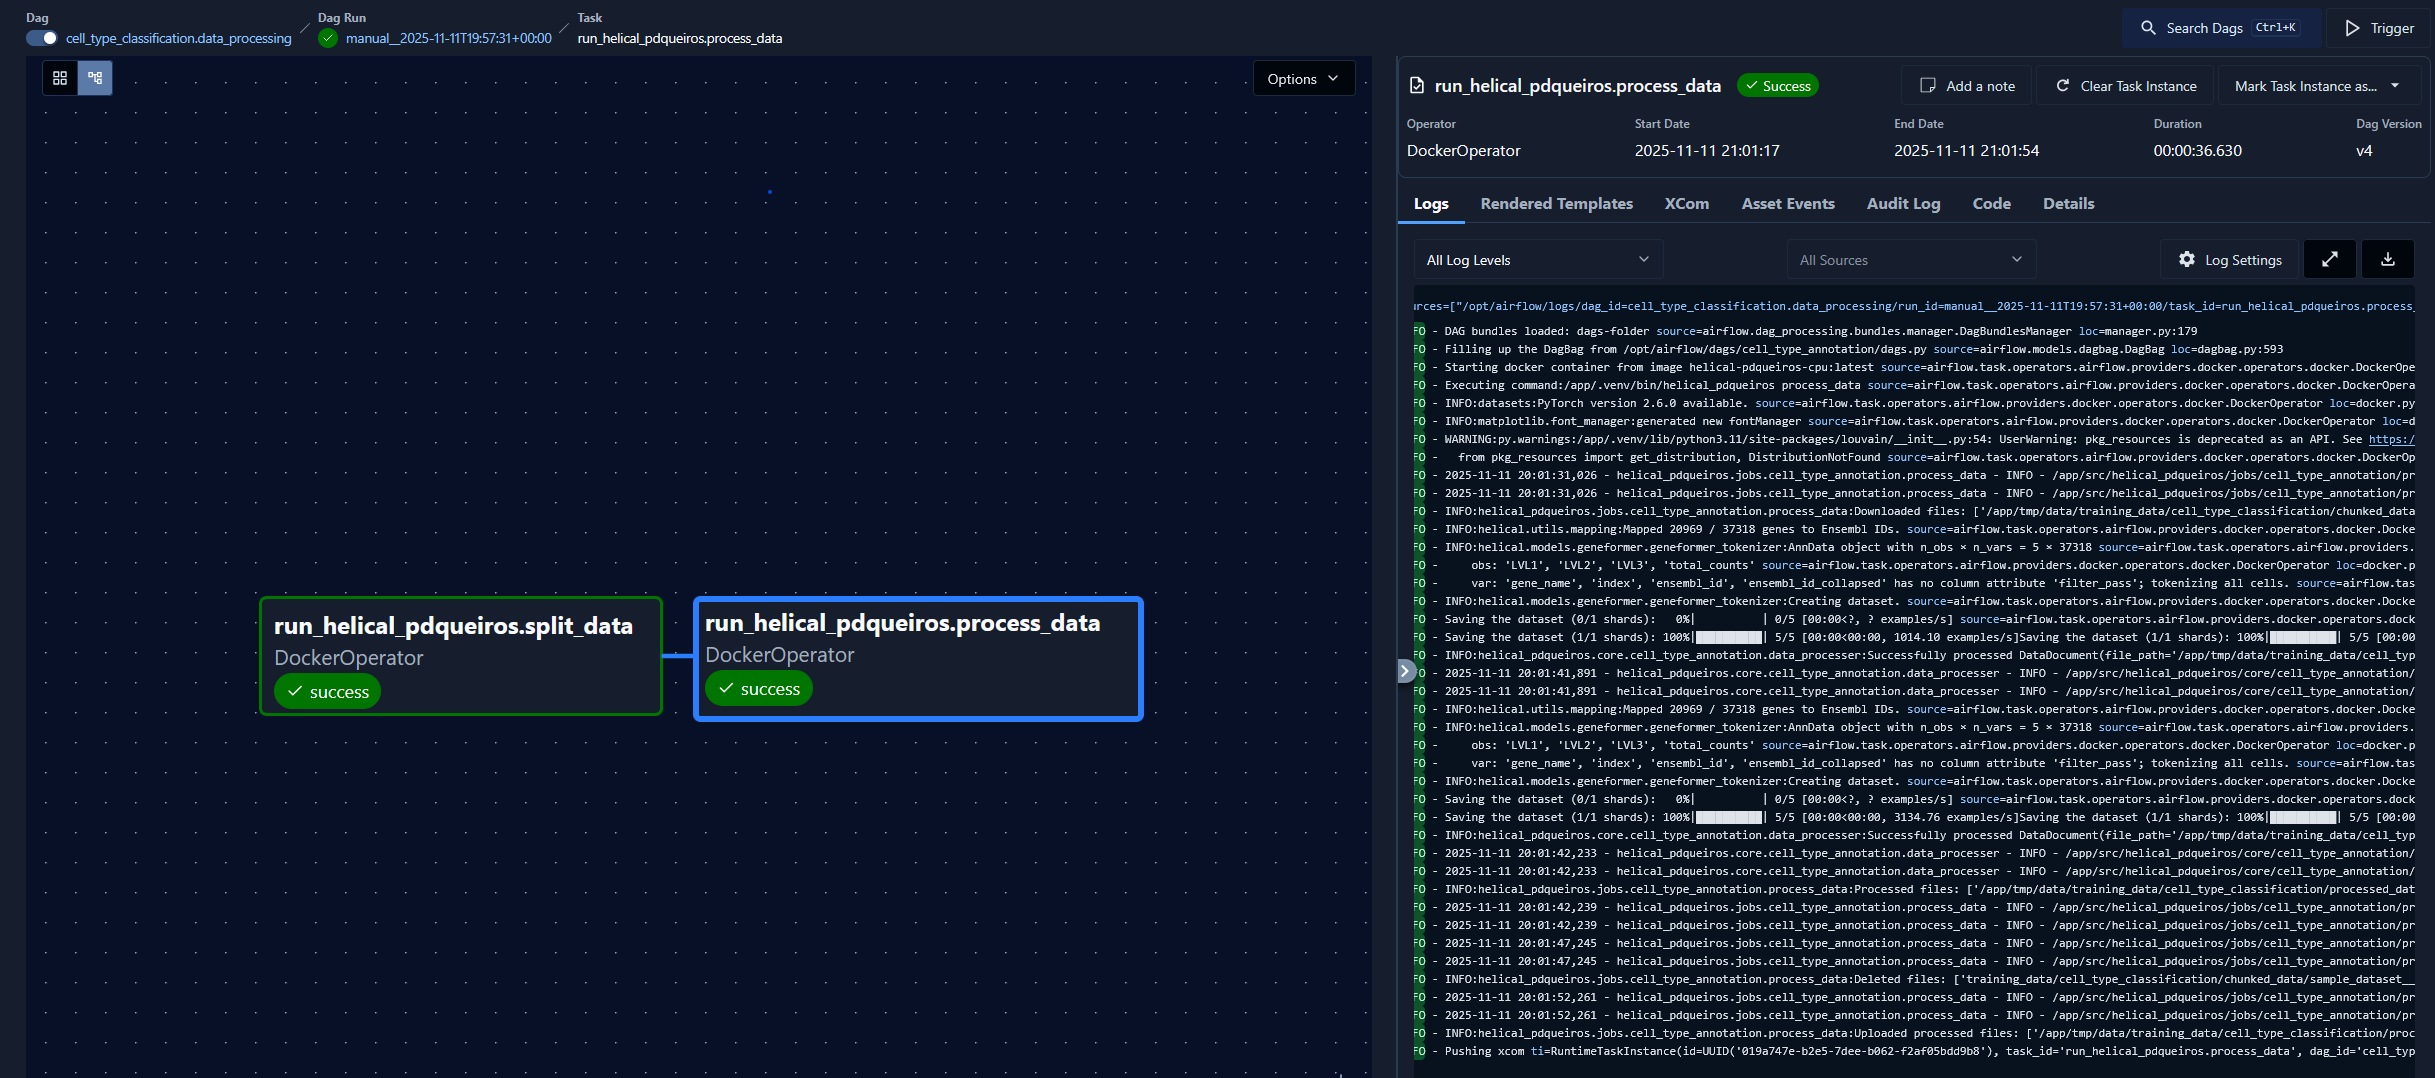
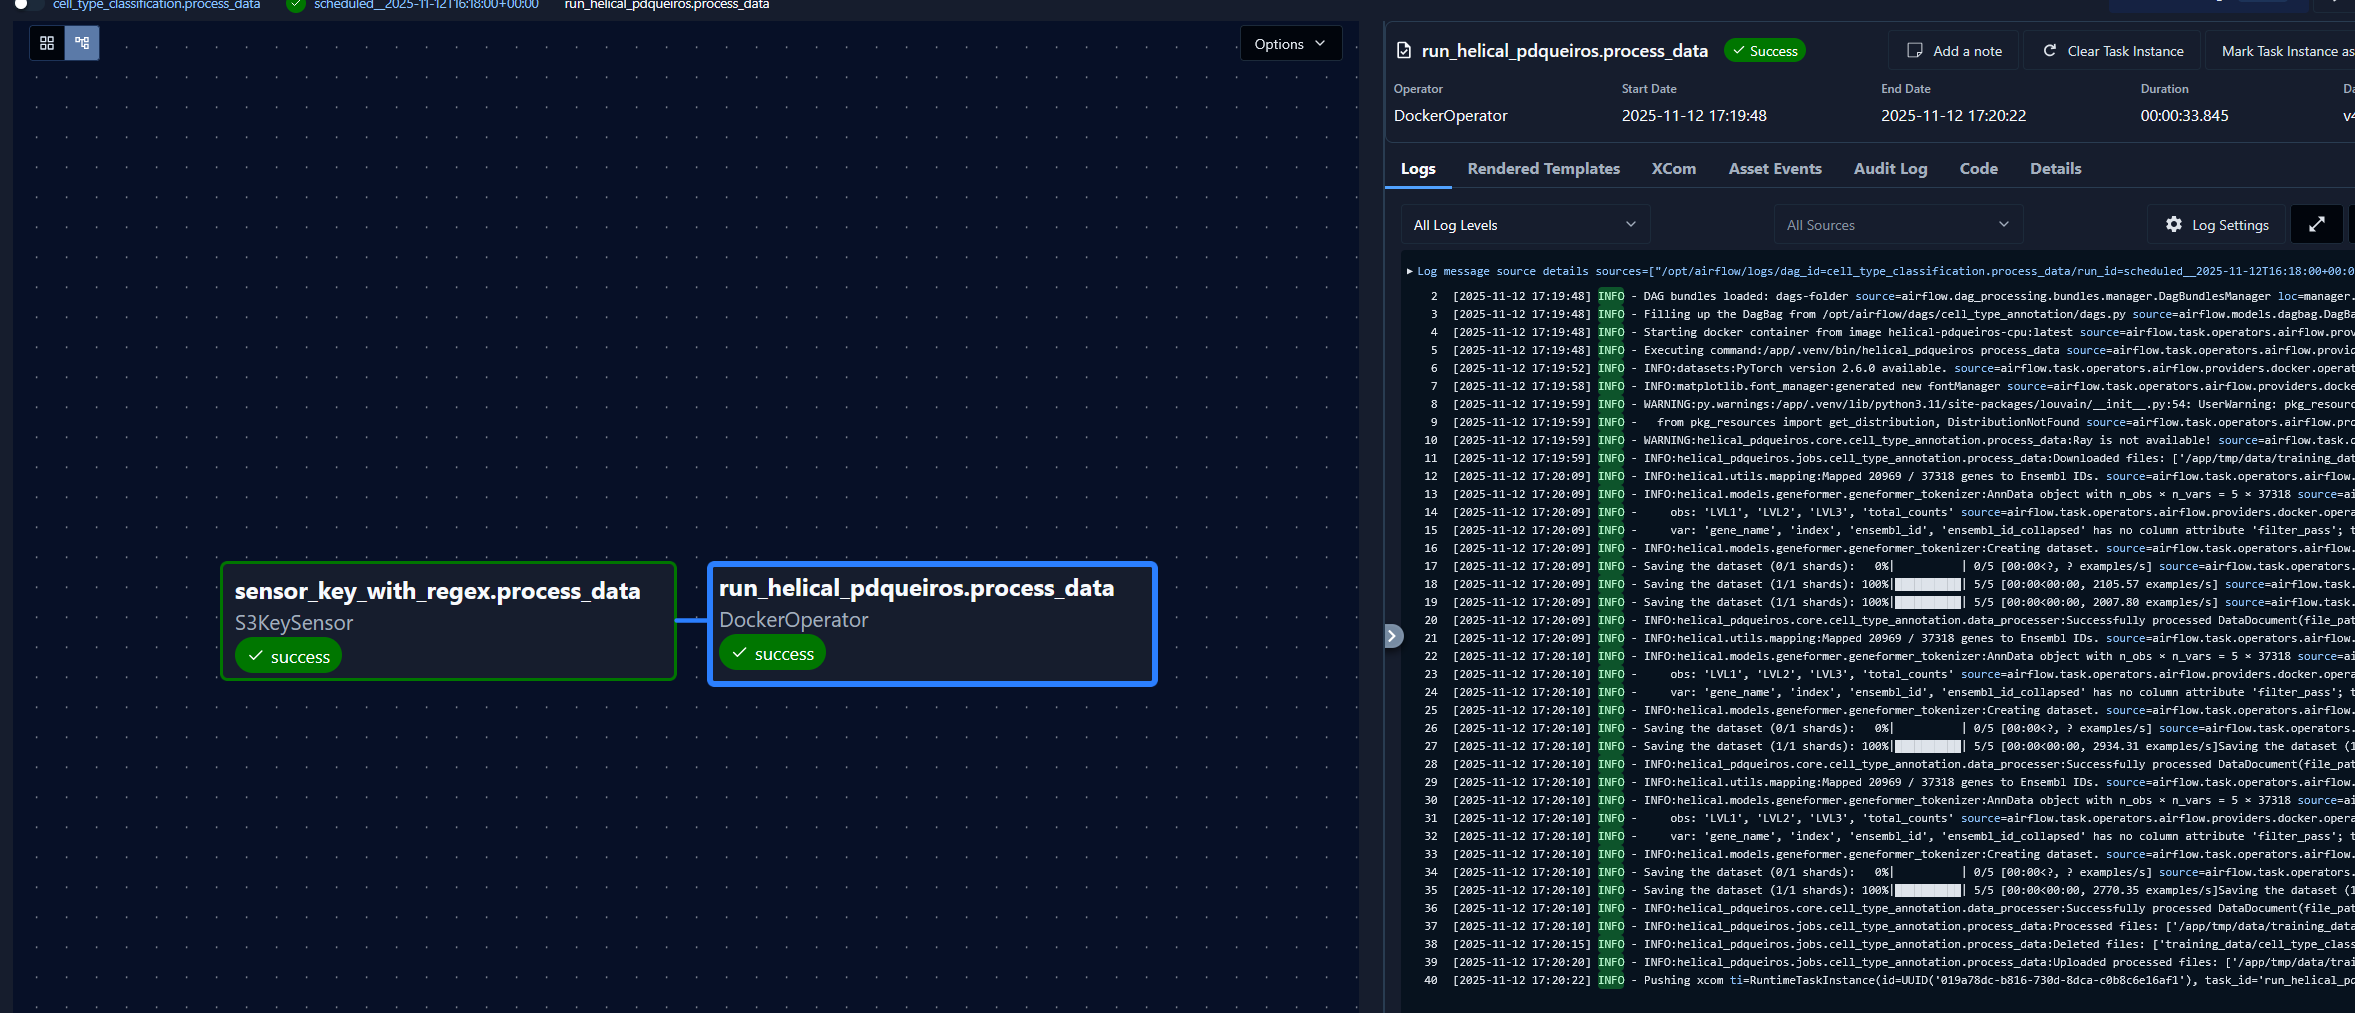
adds sensor to dags

Changed region(s): [[0.496, 0.0, 1.0, 0.9793], [0.093, 0.5508, 0.496, 0.7038], [0.0, 0.0, 0.31, 0.0918]]

diff --git a/dags/cell_type_annotation/dags.py b/dags/cell_type_annotation/dags.py
@@ -1,12 +1,14 @@
 import logging
 import os
 from typing import Literal
-
+from airflow.providers.amazon.aws.sensors.s3 import S3KeySensor
 import pendulum
 from airflow.models.dag import DAG
 from airflow.providers.docker.operators.docker import DockerOperator
 from docker.types import DeviceRequest, Mount
 from dotenv import dotenv_values
+import uuid6
+from airflow.sdk import Variable
 
 IMAGE_NAME = 'helical-pdqueiros-cpu:latest'
 IMAGE_NAME_GPU = 'helical-pdqueiros-gpu:latest'
@@ -17,13 +19,21 @@ logger = logging.getLogger(__name__)
 EXPERIMENT_NAME = os.getenv('EXPERIMENT_NAME', 'cell_type_classification')
 CUDA_DEVICE_ID = os.getenv('CUDA_DEVICE_ID', '')
 
+ENV_CONFIG = dotenv_values(ENV_FILE)
+BUCKET_NAME = ENV_CONFIG['HELICAL_S3_BUCKET']
+SENSOR_TIMEOUT = int(ENV_CONFIG.get('SENSOR_TIMEOUT', '10'))
+
+MINIO_CONNECTION = Variable.get('MINIO_CONNECTION')
+
 
 def get_task(execution_type: Literal['split_data', 'process_data', 'fine_tune'], image_name: str, device_requests: list=None):
     command_to_run = f'helical_pdqueiros {execution_type}'
     # https://airflow.apache.org/docs/apache-airflow-providers-docker/stable/_api/airflow/providers/docker/operators/docker/index.html
+    container_id = uuid6.uuid7().hex
     return DockerOperator(
             task_id=f"run_helical_pdqueiros.{execution_type}",
-            container_name=f'helical-pdqueiros.{execution_type}',
+            # I'd prefer to use run_id for traceability, but it has forbidden characters -> see this https://stackoverflow.com/questions/63138577/airflow-grab-and-sanitize-run-id-for-dockeroperator
+            container_name=f'helical-pdqueiros.{execution_type}.{container_id}',
             image=image_name,
             mounts=[
                 # https://docker-py.readthedocs.io/en/stable/api.html?highlight=mount#docker.types.Mount
@@ -42,15 +52,38 @@ def get_task(execution_type: Literal['split_data', 'process_data', 'fine_tune'],
         )
 
 with DAG(
-    dag_id=f'{EXPERIMENT_NAME}.data_processing',
+    dag_id=f'{EXPERIMENT_NAME}.split_data',
     start_date=pendulum.datetime(2025, 1, 1),
-    # schedule='0 * * * *',
+    schedule='* * * * *',
     catchup=False,
-    tags=["helical-pdqueiros", 'data_processing'],
+    tags=["helical-pdqueiros", 'split_data'],
     ) as dag:
+        sensor_key_with_regex = S3KeySensor(task_id="sensor_key_with_regex.split_data",
+                                            # this is the connection ID we setup in the UI
+                                            aws_conn_id=MINIO_CONNECTION,
+                                            bucket_name=BUCKET_NAME,
+                                            bucket_key=ENV_CONFIG['SENSOR__RAW_DATA_PATTERN'],
+                                            timeout=SENSOR_TIMEOUT,
+                                            use_regex=True)
         split_data_task = get_task(execution_type='split_data', image_name=IMAGE_NAME)
+        sensor_key_with_regex >> split_data_task
+
+with DAG(
+    dag_id=f'{EXPERIMENT_NAME}.process_data',
+    start_date=pendulum.datetime(2025, 1, 1),
+    schedule='* * * * *',
+    catchup=False,
+    tags=["helical-pdqueiros", 'process_data'],
+    ) as dag:
+        sensor_key_with_regex = S3KeySensor(task_id="sensor_key_with_regex.process_data",
+                                            aws_conn_id=MINIO_CONNECTION,
+                                            bucket_name=BUCKET_NAME,
+                                            bucket_key=ENV_CONFIG['SENSOR__CHUNKED_DATA_PATTERN'],
+                                            timeout=SENSOR_TIMEOUT,
+                                            use_regex=True)
         process_data_task = get_task(execution_type='process_data', image_name=IMAGE_NAME)
-        split_data_task >> process_data_task
+        sensor_key_with_regex >> process_data_task
+
 
 with DAG(
     dag_id=f'{EXPERIMENT_NAME}.model_fine_tuning',

diff --git a/README.md b/README.md
@@ -323,35 +323,68 @@ As I previously said, since we are running our DAGs using containers, the main a
 For your reference this is how these DAGs are setup:
 ```python
 
+ENV_CONFIG = dotenv_values(ENV_FILE)
+BUCKET_NAME = ENV_CONFIG['HELICAL_S3_BUCKET']
+MINIO_CONNECTION = Variable.get('MINIO_CONNECTION')
+
 def get_task(execution_type: Literal['split_data', 'process_data', 'fine_tune'], image_name: str, device_requests: list=None):
     command_to_run = f'helical_pdqueiros {execution_type}'
+    # https://airflow.apache.org/docs/apache-airflow-providers-docker/stable/_api/airflow/providers/docker/operators/docker/index.html
+    container_id = uuid6.uuid7().hex
     return DockerOperator(
             task_id=f"run_helical_pdqueiros.{execution_type}",
-            container_name=f'helical-pdqueiros.{execution_type}',
+            container_name=f'helical-pdqueiros.{execution_type}.{container_id}',
             image=image_name,
             mounts=[
-                # We don't really need this mount since everything is hosted on MinIO (which is what you'd do in a distributed system). Anyhow, you can check the data flowing through the /tmp/ folder
+                # I've set the SLEEP_TIME between internal steps to 5 so you can see the data flowing through the mount. But technically you don't need this at all
+                # https://docker-py.readthedocs.io/en/stable/api.html?highlight=mount#docker.types.Mount
                 Mount(source=LOCAL_DATA_PATH, target=CONTAINER_DATA_PATH, type='bind', read_only=False)
                     ],
             command=command_to_run,
             private_environment  = dotenv_values(ENV_FILE),
             api_version='1.51',
+            # api_version='auto',
             network_mode="helical-network",
             auto_remove='force',
+            # for docker in docker (tecnativa/docker-socket-proxy:v0.4.1) -> https://github.com/benjcabalona1029/DockerOperator-Airflow-Container/tree/master
             mount_tmp_dir=False,
             docker_url="tcp://airflow-docker-socket:2375",
             device_requests=device_requests,
         )
 
 with DAG(
-    dag_id=f'{EXPERIMENT_NAME}.data_processing',
+    dag_id=f'{EXPERIMENT_NAME}.split_data',
     start_date=pendulum.datetime(2025, 1, 1),
+    schedule='* * * * *',
     catchup=False,
-    tags=["helical-pdqueiros", 'data_processing'],
+    tags=["helical-pdqueiros", 'split_data'],
     ) as dag:
+        sensor_key_with_regex = S3KeySensor(task_id="sensor_key_with_regex.split_data",
+                                            # this is the connection ID we setup in the UI
+                                            aws_conn_id=MINIO_CONNECTION,
+                                            bucket_name=BUCKET_NAME,
+                                            bucket_key=ENV_CONFIG['SENSOR__RAW_DATA_PATTERN'],
+                                            timeout=10,
+                                            use_regex=True)
         split_data_task = get_task(execution_type='split_data', image_name=IMAGE_NAME)
+        sensor_key_with_regex >> split_data_task
+
+with DAG(
+    dag_id=f'{EXPERIMENT_NAME}.process_data',
+    start_date=pendulum.datetime(2025, 1, 1),
+    schedule='* * * * *',
+    catchup=False,
+    tags=["helical-pdqueiros", 'process_data'],
+    ) as dag:
+        sensor_key_with_regex = S3KeySensor(task_id="sensor_key_with_regex.process_data",
+                                            aws_conn_id=MINIO_CONNECTION,
+                                            bucket_name=BUCKET_NAME,
+                                            bucket_key=ENV_CONFIG['SENSOR__CHUNKED_DATA_PATTERN'],
+                                            timeout=10,
+                                            use_regex=True)
         process_data_task = get_task(execution_type='process_data', image_name=IMAGE_NAME)
-        split_data_task >> process_data_task
+        sensor_key_with_regex >> process_data_task
+
 
 with DAG(
     dag_id=f'{EXPERIMENT_NAME}.model_fine_tuning',
@@ -362,51 +395,53 @@ with DAG(
     ) as dag:
         fine_tune_task = get_task(execution_type='fine_tune',
                                   image_name=IMAGE_NAME_GPU,
-                                  # I only have one GPU, but you could use more
                                   device_requests=[DeviceRequest(capabilities=[['gpu']], device_ids=['0'])])
+
+
+
 ```
 
+As you can see above, there's 3 DAGs, the first 2 (`cell_type_classification.split_data` and `cell_type_classification.process_data`) are triggered via S3 sensors.
 
-As you can see below, the DAG process data first split the data and then processes it, both via Docker Operators. 
+### **Note that you need to create a connection to MinIO through the Airflow UI**
 
-![airflow-dags](./images/dag-process-data.png)
+![minio-connection](./images/minio-connection.png)
 
-And then another DAG can be triggered to fine-tune the model training.
+Additionally, while I've used load_dotenv to load our environmental variables (by mounting the `.env` file), in a production environment you are better off defining variables through the UI and then using `from airflow.sdk import Variable`. You can see the `MINIO_CONNECTION` example in the code and in the image below:
+
+![minio-connection-variable](./images/minio-connection-variable.png)
+s
+
+As you can see from the code and image below, these 2 DAGs are being trigger every minute by this sensor, which checks MinIO for regex patterns I've defined in the `.env` file:
+```bash
+SENSOR__RAW_DATA_PATTERN="training_data/cell_type_classification/raw_data/(.*\.h5ad)$"
+SENSOR__CHUNKED_DATA_PATTERN="training_data/cell_type_classification/chunked_data/(.*\.h5ad)$"
+```
+If the sensor finds these patterns in MinIO, then the next task of the DAG is triggered.
+The important detail here being that `cell_type_classification.process_data` can be triggered multiple times, since each internal task (`process_data_task`) only takes a certain amount of `PROCESSING_CHUNKS_LIMIT` chunks per run. So, imagine that you have a very large dataset that is split in `cell_type_classification.split_data` into very large chunks that hours to process; by triggering the `cell_type_classification.process_data` DAG multiple times, you are able to parallelize the data processing.
+
+
+![dags-parallel](./images/dags-parallel.png)
+
+![dag-process-data](./images/dag-process-data.png)
+
+
+Lastly, you can manually trigger the `fine_tuning` DAG which runs the actual the model training.
 Notice that since we had the `DeviceRequest` defined in our DockerOperator, the fine-tuning was done with using my local GPU (highlighted `cuda`). Similar to the local run, a model experimented is also logged into MLFlow.
 
 
-![airflow-dags](./images/dag-fine-tune.png)
+![dag-fine-tune](./images/dag-fine-tune.png)
 
 Now, as previously explained in [Detailed workflow description and local testing](#detailed-workflow-description-and-local-testing) you can start by loading sample data into [Minio](http://localhost:9001).
-Then first run the DAG `cell_type_classification.data_processing` and then `cell_type_classification.fine_tuning`
+Then first wait for the DAGs `cell_type_classification.split_data` and `cell_type_classification.process_data` to finish and then you can run `cell_type_classification.fine_tuning`
 
 
 **And this is basically the end of this showcase...**
 
 
 
-# Known issues
+# Troubleshooting
 
-- Terraform apply Kuberay issues:
-```
-╷
-│ Error: API did not recognize GroupVersionKind from manifest (CRD may not be installed)
-│ 
-│   with kubernetes_manifest.raycluster,
-│   on kuberay.tf line 51, in resource "kubernetes_manifest" "raycluster":
-│   51: resource "kubernetes_manifest" "raycluster" {
-│ 
-│ no matches for kind "RayCluster" in group "ray.io"
-╵
-```
-
-When this happens you can:
-```bash
-# run this first to first install the kuberay CRD 
-terraform apply -target=helm_release.kuberay_operator
-# deploy the rest
-terraform apply
-```
 
 - If you have issues starting the docker operators due to this error:
 ```bash
@@ -575,3 +610,24 @@ You have to also tunnel into the head service so that the ray endpoint (localhos
 kubectl port-forward service/helical-raycluster-head-svc -n helical-pdqueiros 8265:8265 10001:10001
 ```
 
+
+Terraform apply Kuberay issues:
+```
+╷
+│ Error: API did not recognize GroupVersionKind from manifest (CRD may not be installed)
+│ 
+│   with kubernetes_manifest.raycluster,
+│   on kuberay.tf line 51, in resource "kubernetes_manifest" "raycluster":
+│   51: resource "kubernetes_manifest" "raycluster" {
+│ 
+│ no matches for kind "RayCluster" in group "ray.io"
+╵
+```
+
+When this happens you can:
+```bash
+# run this first to first install the kuberay CRD 
+terraform apply -target=helm_release.kuberay_operator
+# deploy the rest
+terraform apply
+```
